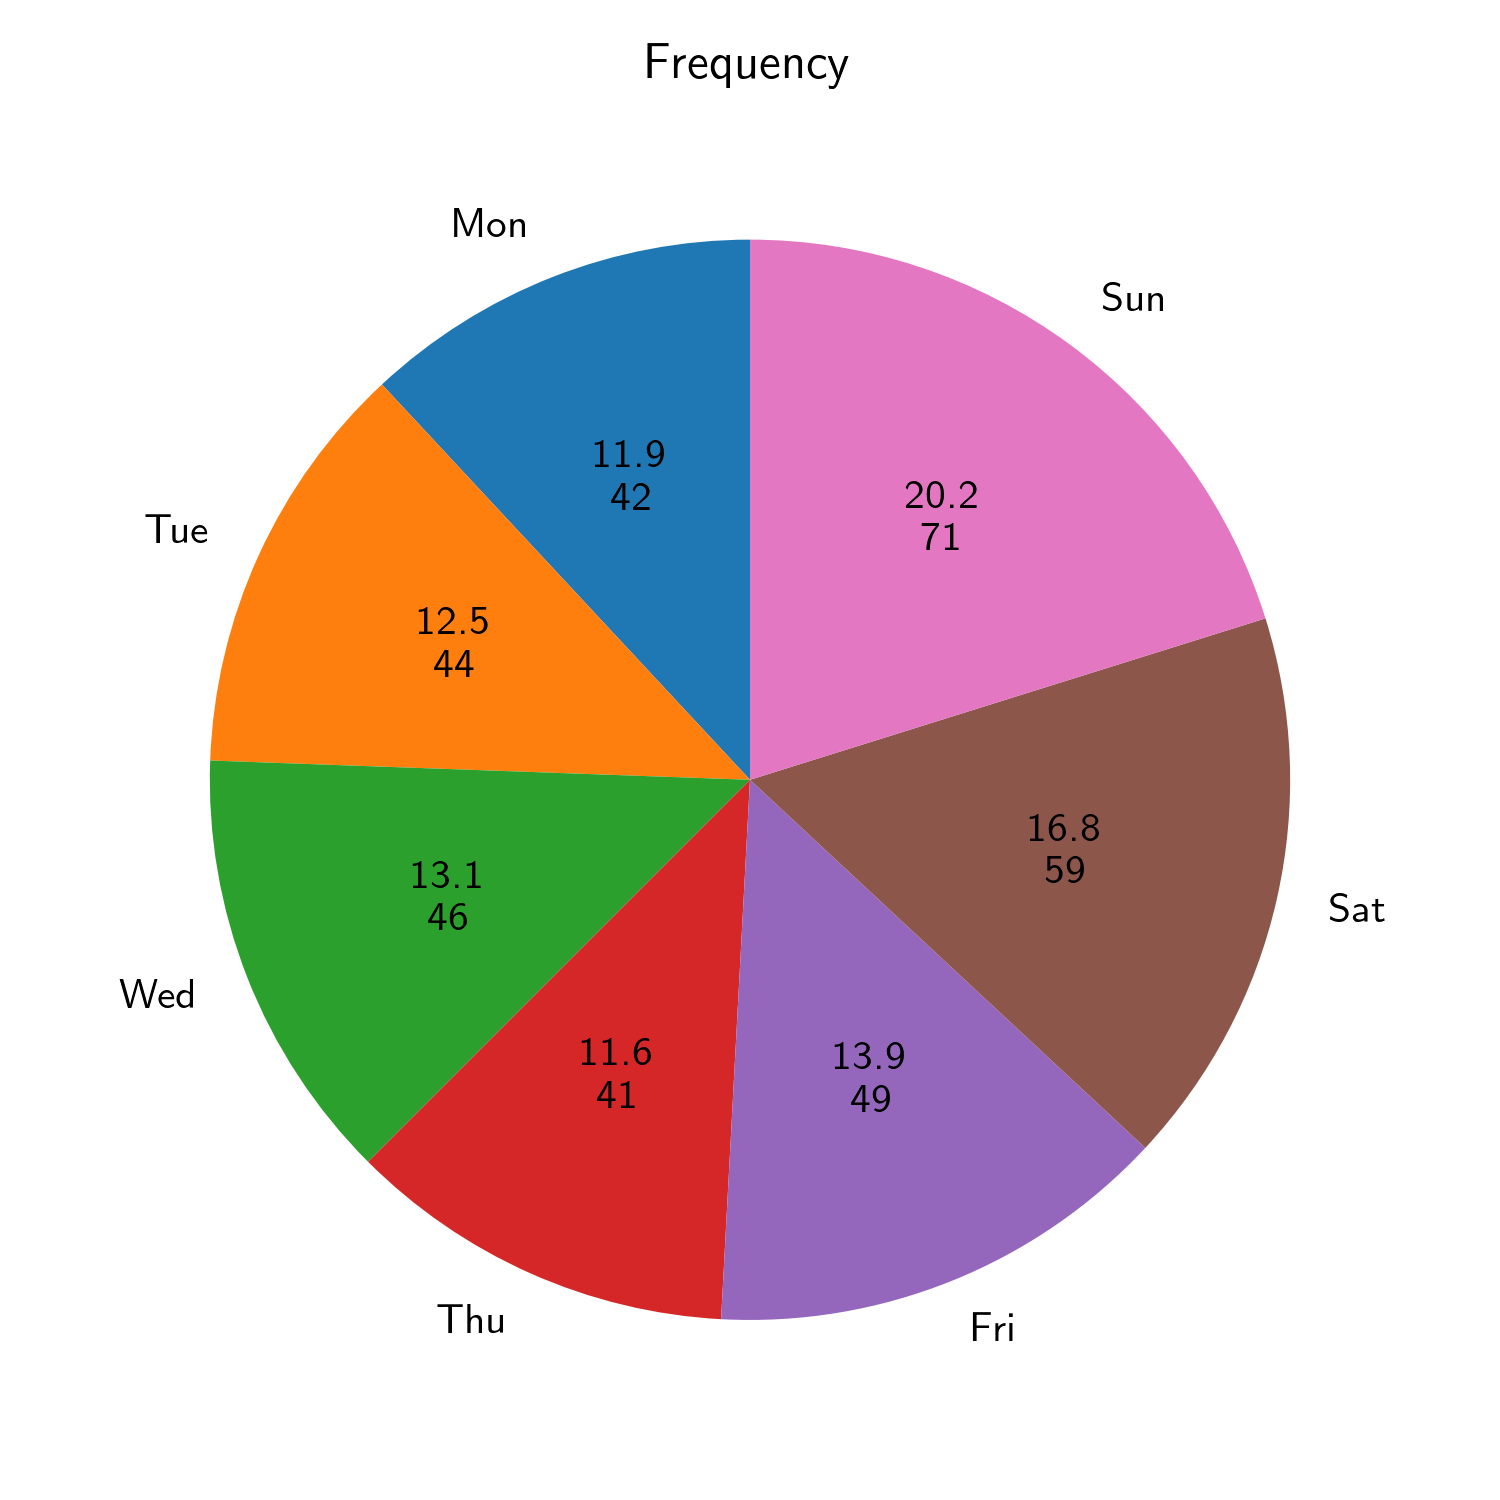
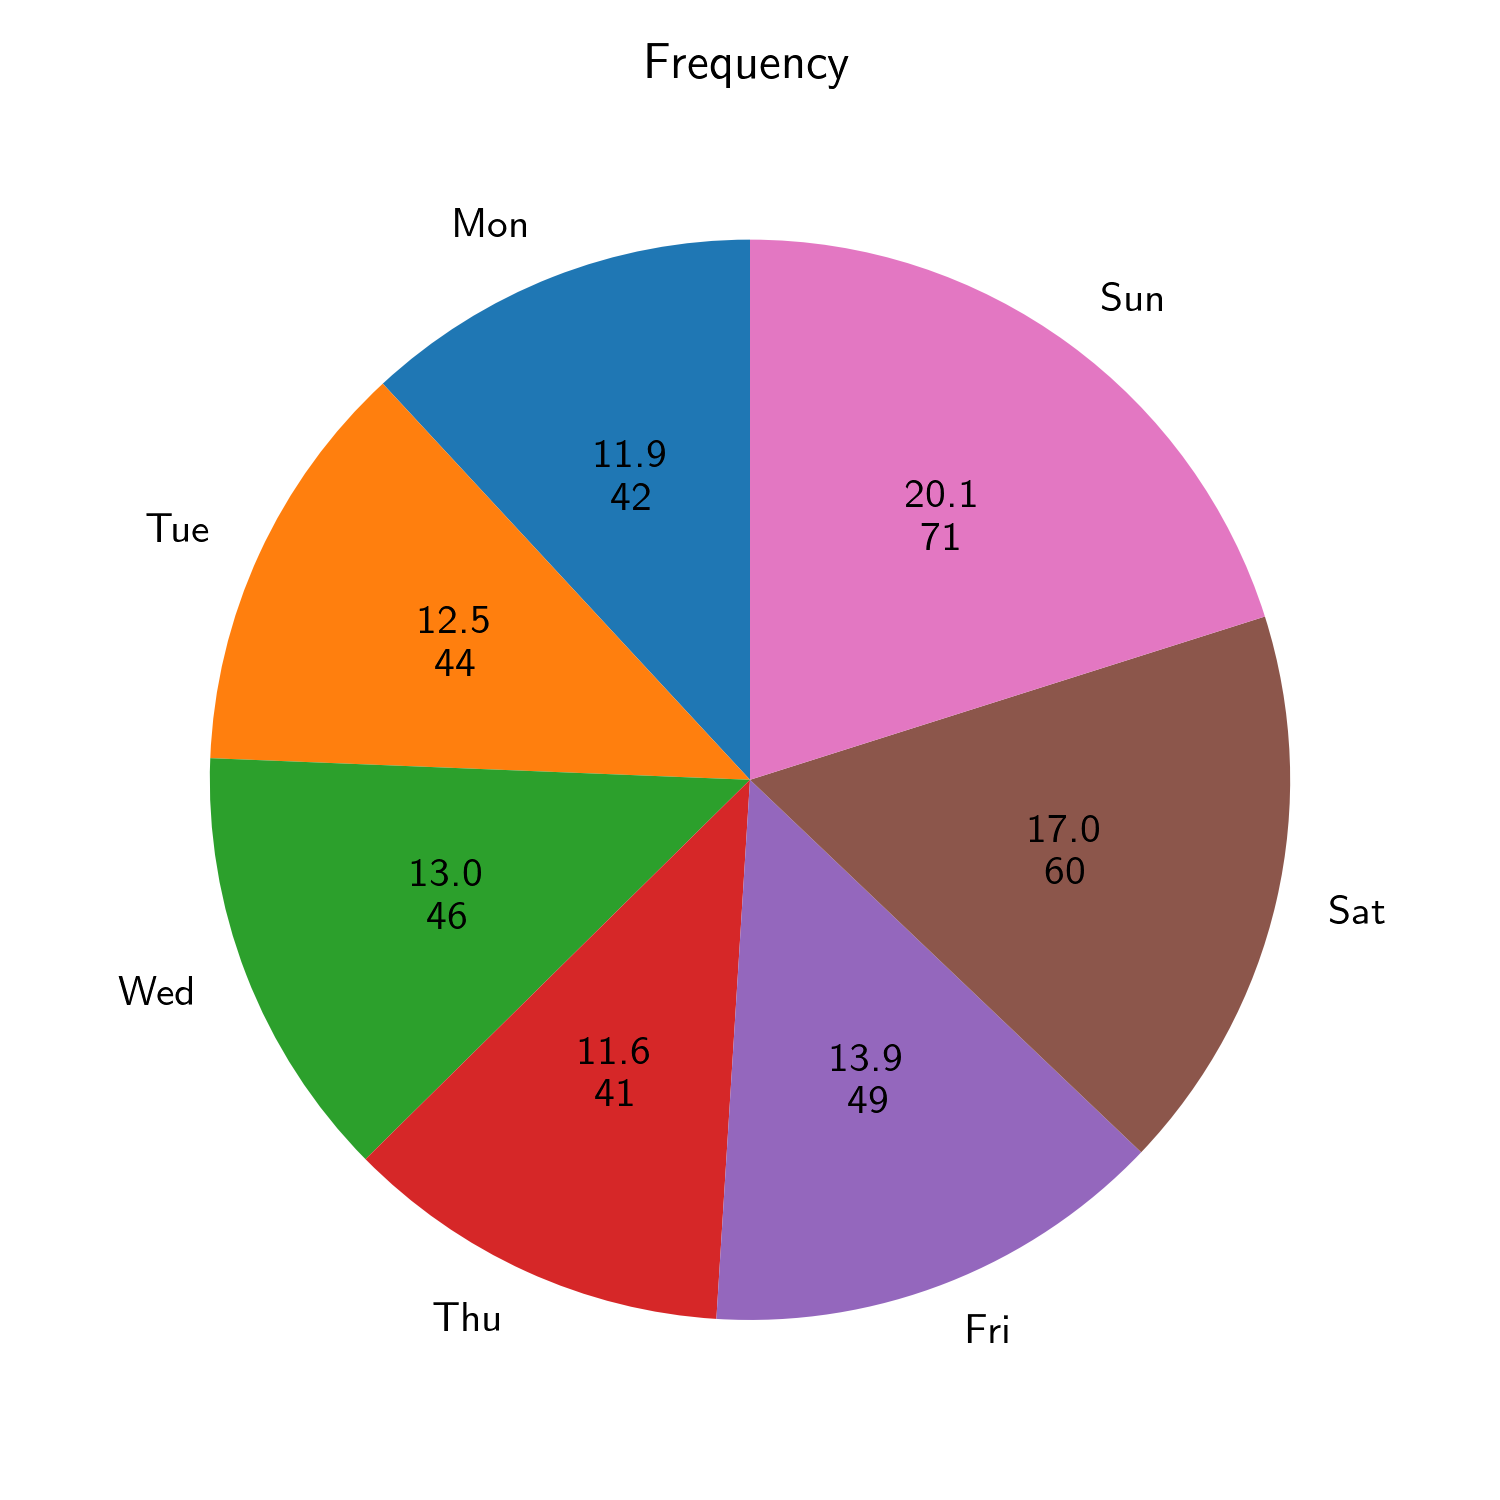
update data

diff --git a/README.md b/README.md
@@ -1,10 +1,10 @@
 # Overview  
 || whole | half |  
 |---|---|---|  
-|total $/ \textup{€}$|184.570 $\pm$ 52.605|109.118 $\pm$ 31.413|  
-|ratio $/ \frac{\textup{€}}{\textup{h}}$| 4.416 $\pm$  0.774| 5.136 $\pm$  1.119|  
-|cash $/ \textup{€}$|63.542 $\pm$ 37.651|44.469 $\pm$ 20.527|  
-|card $/ \textup{€}$|88.463 $\pm$ 54.188|57.202 $\pm$ 27.775|  
+|total $/ \textup{€}$|184.092 $\pm$ 52.838|109.118 $\pm$ 31.413|  
+|ratio $/ \frac{\textup{€}}{\textup{h}}$| 4.429 $\pm$  0.790| 5.136 $\pm$  1.119|  
+|cash $/ \textup{€}$|63.183 $\pm$ 37.845|44.469 $\pm$ 20.527|  
+|card $/ \textup{€}$|87.963 $\pm$ 54.440|57.202 $\pm$ 27.775|  
 # Frequency  
     
 ![Image](./png/frequency.png)  
@@ -19,9 +19,9 @@
   
 ||ratio $/ \frac{\textup{€}}{\textup{h}}$|total $/ \textup{€}$|timestamp|holiday|  
 |---|---|---|---|---|  
-|1"|  6.52|334.35|22.10.2023 Sun PM|False|  
-|2"|  6.52|334.35|22.10.2023 Sun False|False|  
-|3"|  6.47|301.01|28.04.2024 Sun False|False|  
+|1"|  6.67|100.00|21.09.2024 Sat AM|False|  
+|2"|  6.52|334.35|22.10.2023 Sun PM|False|  
+|3"|  6.52|334.35|22.10.2023 Sun False|False|  
   
   
     
@@ -56,8 +56,8 @@
 ||ratio $/ \frac{\textup{€}}{\textup{h}}$|  4.14 $\pm$  0.68|  4.76 $\pm$  0.98|  
 |Friday|total $/ \textup{€}$|192.67 $\pm$ 34.05|104.48 $\pm$ 25.23|  
 ||ratio $/ \frac{\textup{€}}{\textup{h}}$|  4.38 $\pm$  0.74|  4.96 $\pm$  1.14|  
-|Saturday|total $/ \textup{€}$|222.00 $\pm$ 41.67|116.06 $\pm$ 31.65|  
-||ratio $/ \frac{\textup{€}}{\textup{h}}$|  4.58 $\pm$  0.66|  4.94 $\pm$  1.08|  
+|Saturday|total $/ \textup{€}$|218.51 $\pm$ 45.82|116.06 $\pm$ 31.65|  
+||ratio $/ \frac{\textup{€}}{\textup{h}}$|  4.64 $\pm$  0.74|  4.94 $\pm$  1.08|  
 |Sunday|total $/ \textup{€}$|253.40 $\pm$ 46.26|138.03 $\pm$ 28.18|  
 ||ratio $/ \frac{\textup{€}}{\textup{h}}$|  5.17 $\pm$  0.66|  5.49 $\pm$  1.09|  
 # Make me feel Special  
@@ -65,12 +65,12 @@ Special: Holidays and Weekends
 ## Whole day  
 ||total $/ \textup{€}$|ratio $/ \frac{\textup{€}}{\textup{h}}$|count|  
 |---|---|---|---|  
-|All|190.73 $\pm$ 54.87|  4.52 $\pm$  0.80|210  
+|All|190.30 $\pm$ 55.09|  4.53 $\pm$  0.81|211  
 |Normal|164.48 $\pm$ 38.69|  4.32 $\pm$  0.77|136  
-|Weekend|238.97 $\pm$ 46.90|  4.90 $\pm$  0.72|74  
+|Weekend|237.12 $\pm$ 49.23|  4.92 $\pm$  0.74|75  
 |Holiday|182.64 $\pm$ 54.61|  4.45 $\pm$  0.83|61  
-|Special|210.87 $\pm$ 59.16|  4.67 $\pm$  0.81|116  
-|Special\&Friday|208.39 $\pm$ 55.95|  4.64 $\pm$  0.80|138  
+|Special|209.93 $\pm$ 59.79|  4.69 $\pm$  0.83|117  
+|Special\&Friday|207.61 $\pm$ 56.50|  4.65 $\pm$  0.82|139  
     
 ![Image](./png/special_whole.png)  
 ## Half day  
